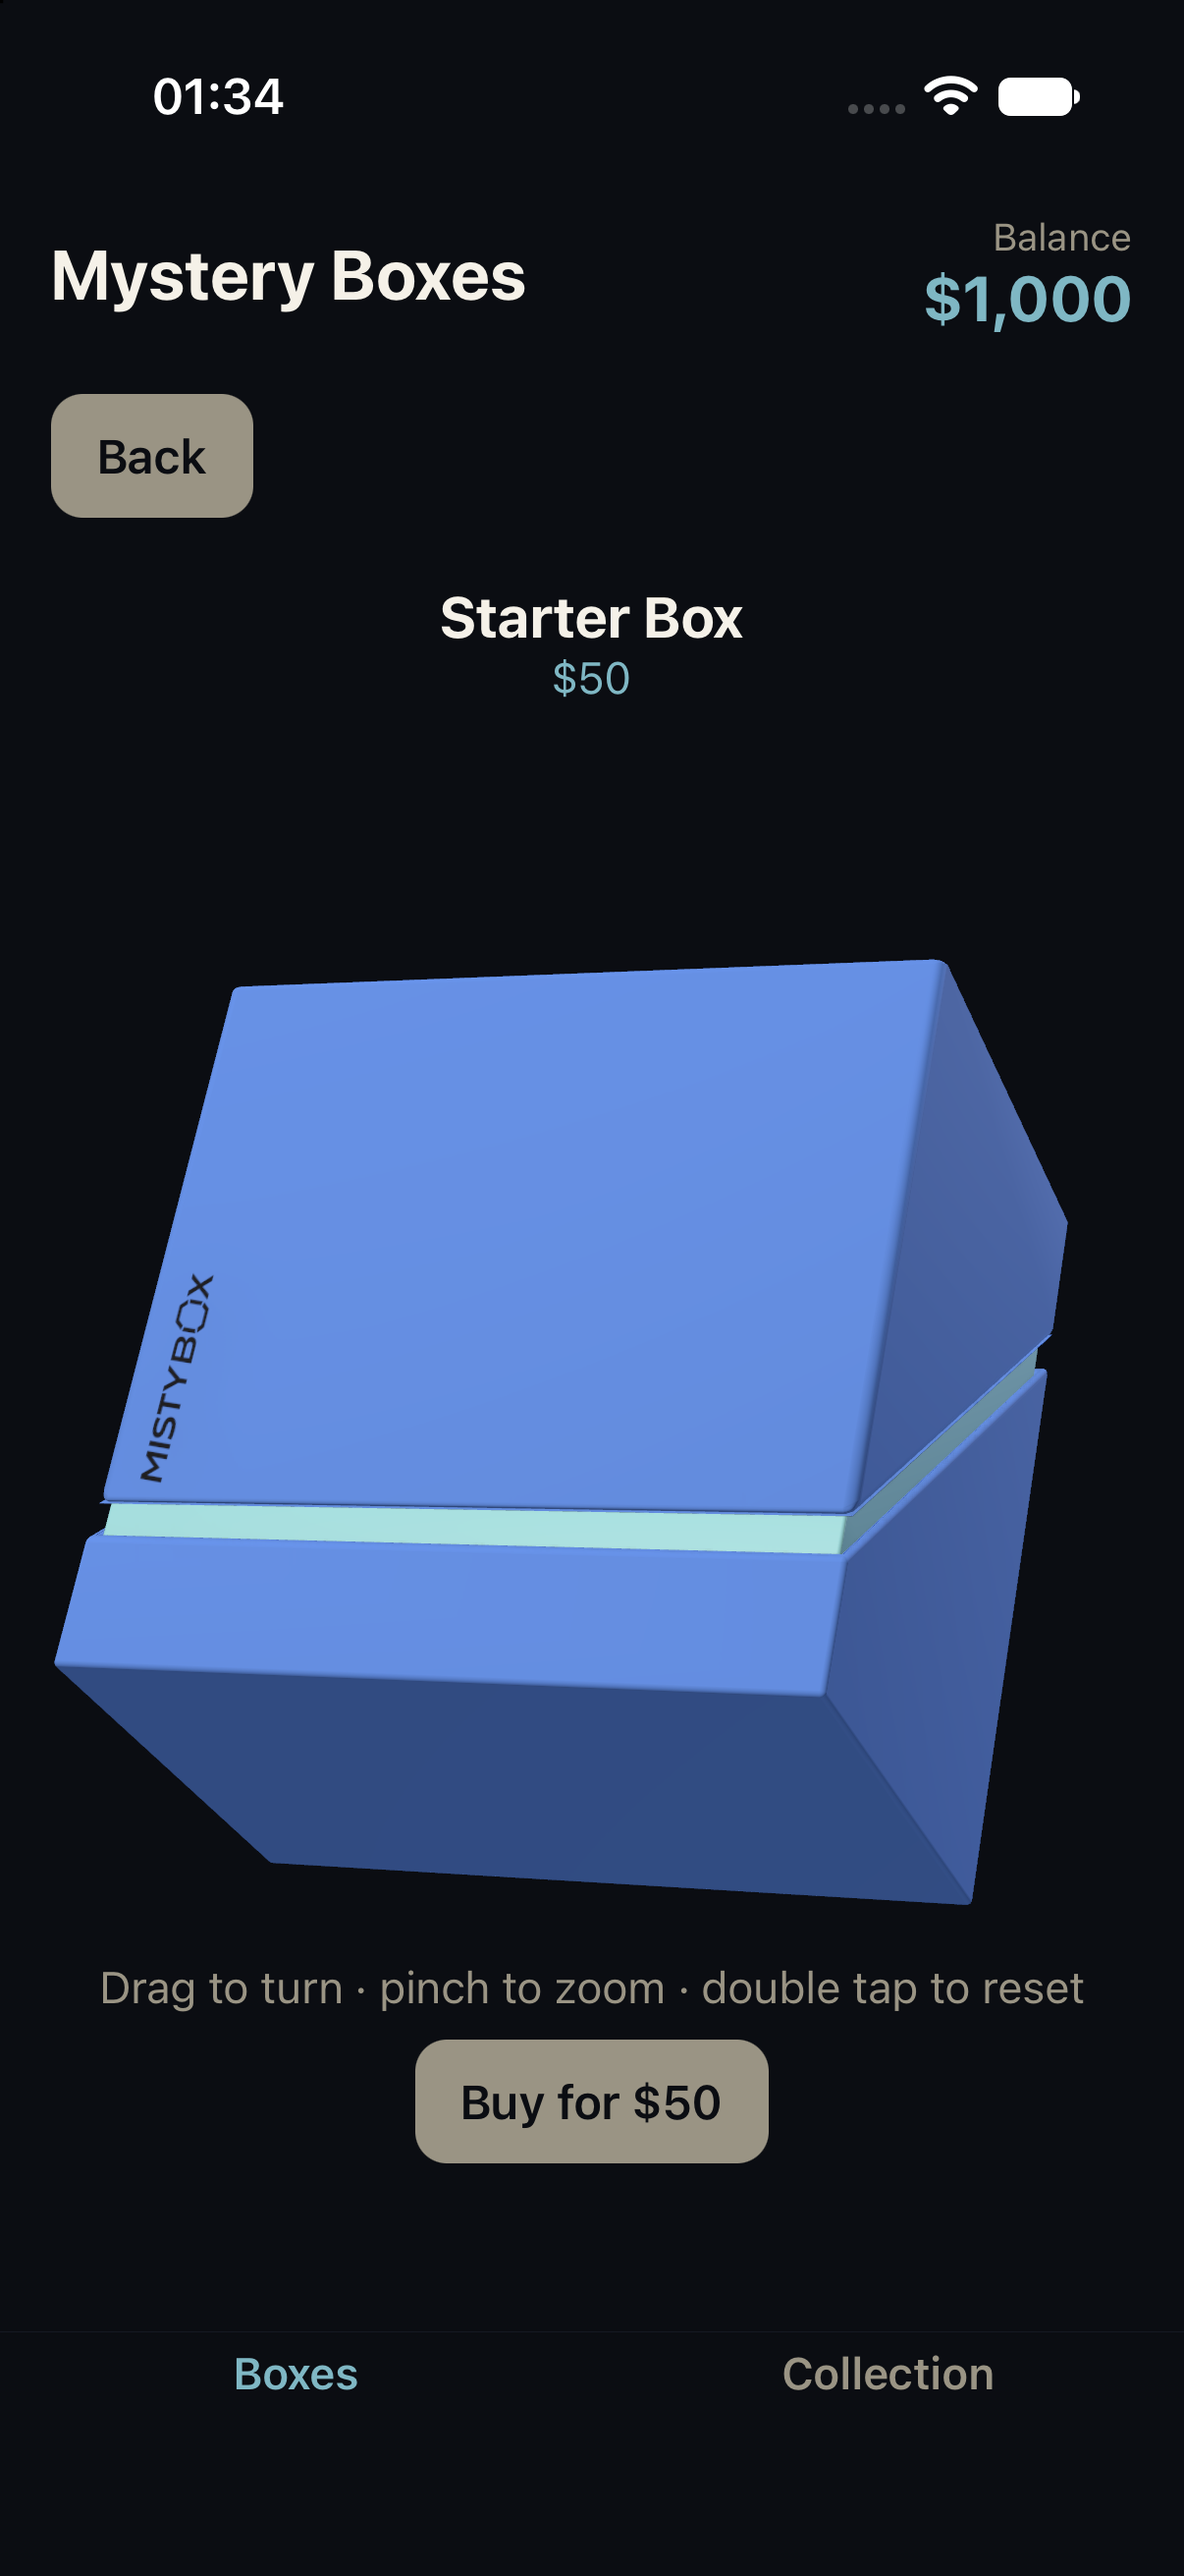
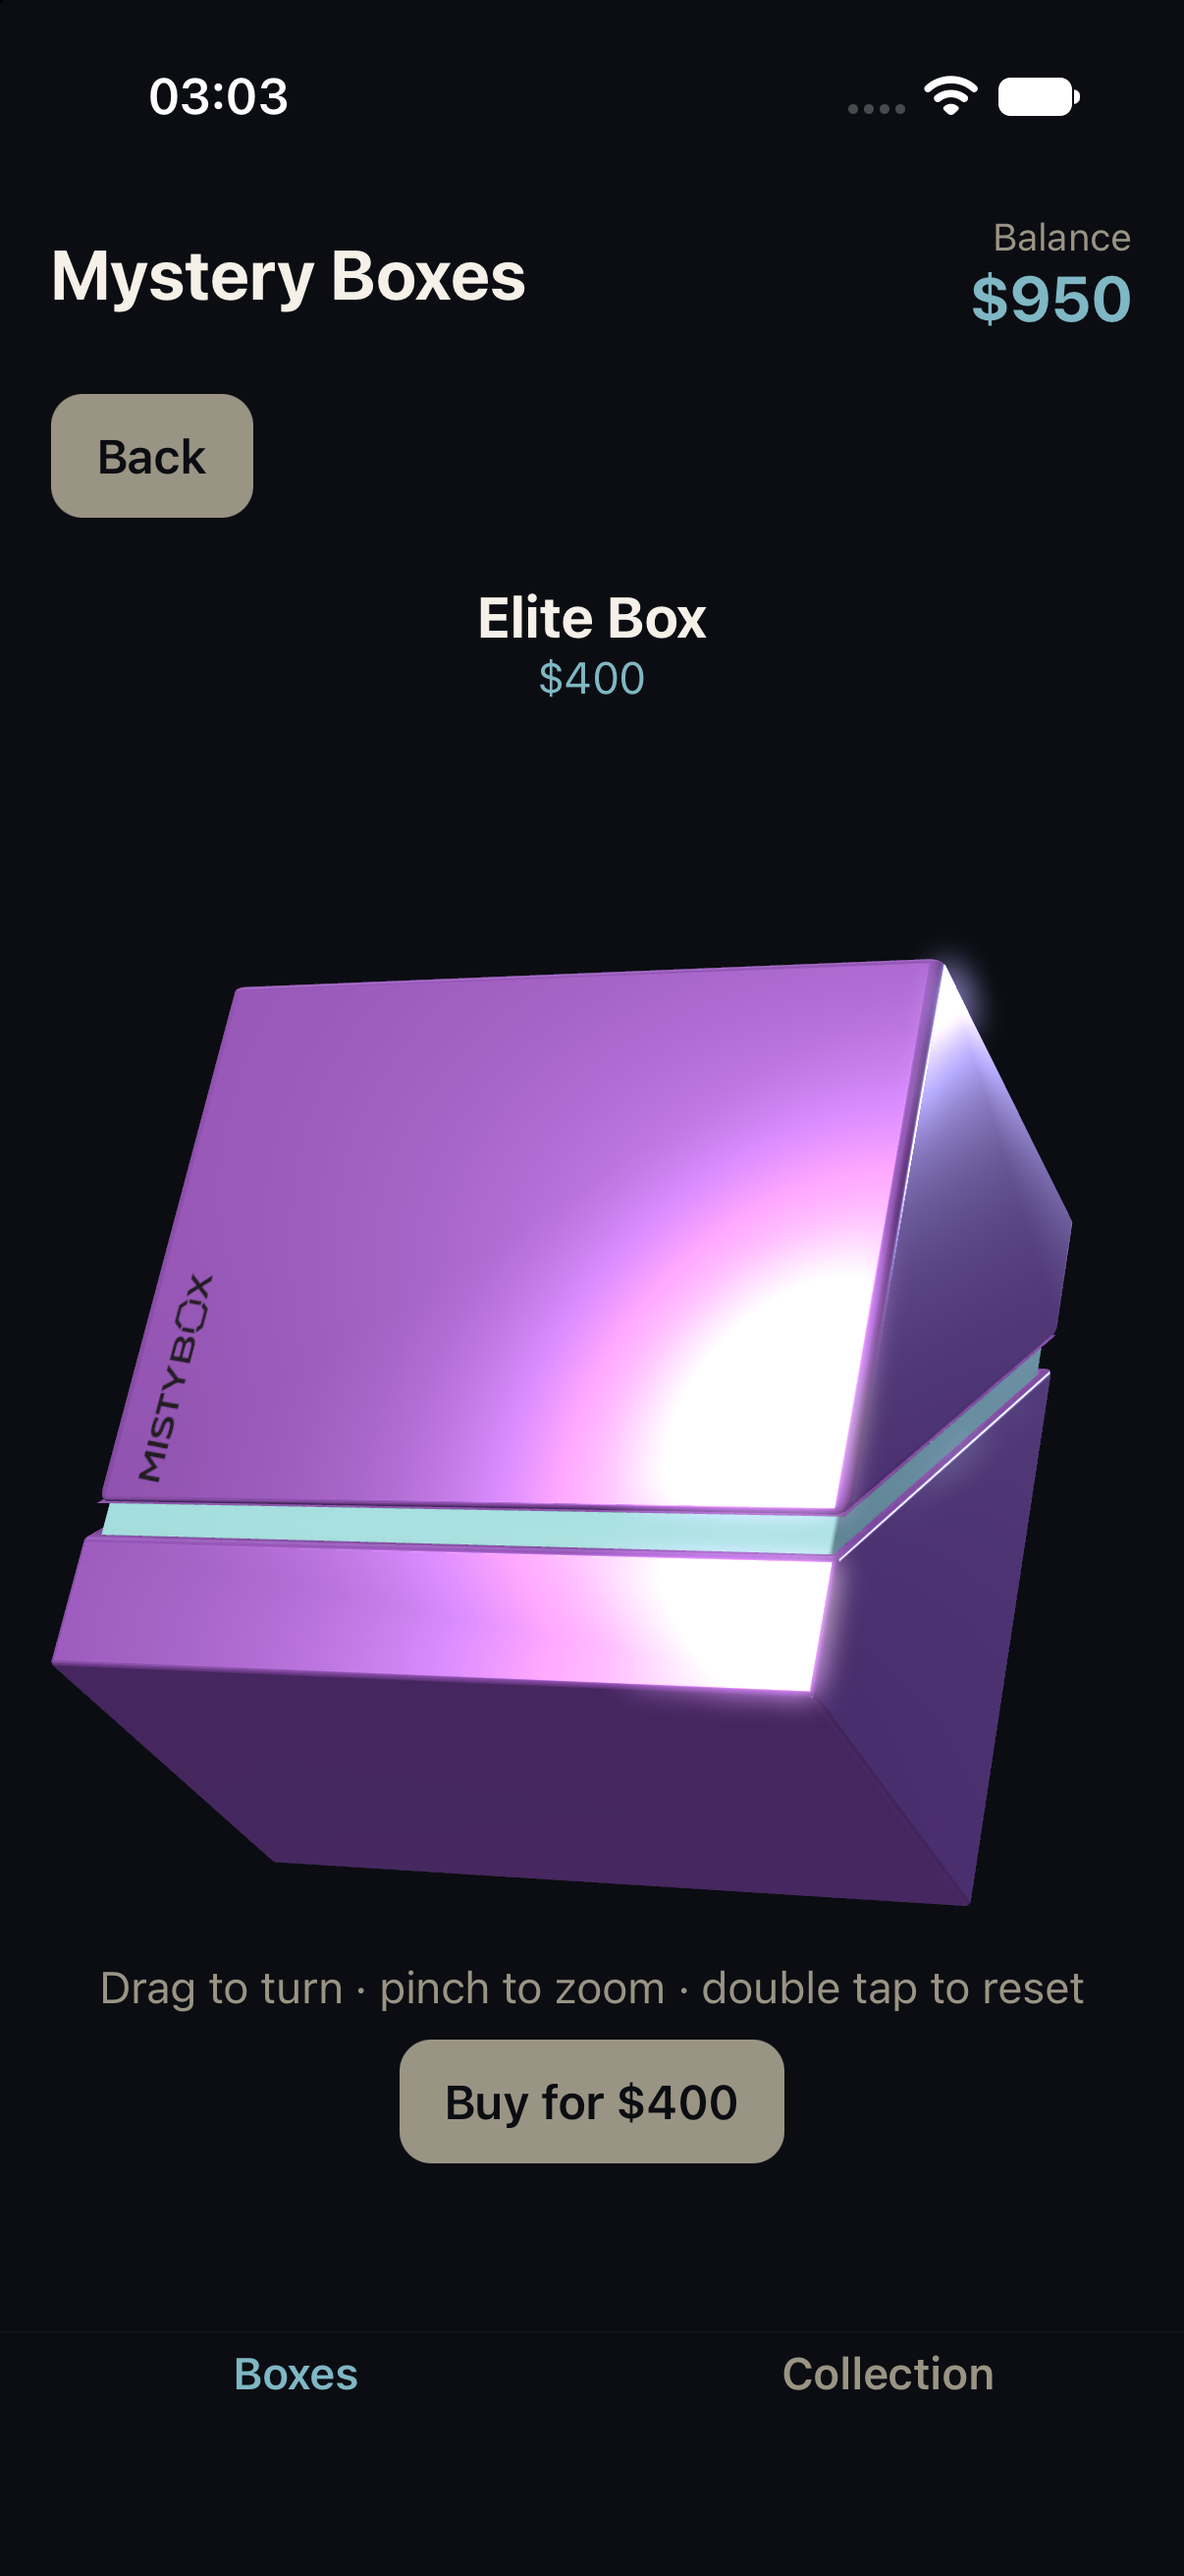
Round 2: Android progressive quality, iOS glow, scripted flow on both platforms, FPS of the opening flow, failure injection, docs

diff --git a/docs/PERFORMANCE.md b/docs/PERFORMANCE.md
@@ -10,7 +10,7 @@ Method: release builds with `EXPO_PUBLIC_SHOW_PERFORMANCE=1 EXPO_PUBLIC_AUTO_SCR
 |---|---|---|---|
 | Catalogue scrolling, all windows | **60.0 FPS**, 76 windows, 4,591 frames, 1 slow frame, worst frame 50 ms | **59.5 FPS**, 74 windows, 4,404 frames, 6 slow frames, worst frame 400 ms | 60.0 FPS, 0 slow frames, worst 17 ms |
 | Same, after the first 3 windows | 60.0 (windows 2…: 0 slow frames) | **60.0 FPS, 0 slow frames** (69 windows) | |
-| Opening flow (select → buy → open → reveal → Done) | **not measured** | 55.3 FPS, 138 windows, 505 slow frames, worst 383 ms: **unreliable**: the scripted run was started during the ~12 s material compile and several of its taps missed ([log](data/android-opening-flow.log)) | 60.0 / 59.6 |
+| Opening flow (select → buy → open → reveal → Done), 2-3 purchases, release build with the overlay | **60.0 FPS**, 33 windows, 1,938 frames, 1 slow frame (53 ms) ([log](data/ios-opening-flow.log)) | **58.5 FPS**, 44 windows, 2,574 frames, 43 slow frames (1.7 %), worst 100 ms, lowest window 42.3 FPS ([log](data/android-opening-flow.log)) | 60.0 / 59.6 |
 
 Raw logs: [data/ios-catalogue-scroll.log](data/ios-catalogue-scroll.log), [data/android-catalogue-scroll.log](data/android-catalogue-scroll.log). Analysis: `python3 scripts/perf/analyzeRenderFps.py <ios|android> 0 1000000 <log>`.
 
@@ -31,9 +31,13 @@ So (on iOS, and for the computed frames on Android) the native side is ready lon
 
 Before/after of the fixes made while investigating: Android used an opaque black clear colour (looked like a dark rectangle behind the list): now transparent (the app background shows through); iOS shipped without `box.glb` in its resource bundle (list without any boxes): fixed (`modules/mystery-scene/ios/Assets`). Both are correctness fixes, not timing changes. Not done: preloading the scene before the screen mounts, warming Filament's pipelines before the first visible frame, and mounting the view during "Loading boxes…" (it is already mounted then, with no cards). These are the next steps for the Android hitch.
 
-### 2b. Android: boxes appear only after Filament has compiled its materials (OPEN PROBLEM)
+### 2b. Android: material compilation delay (found in round 2, fixed by progressive quality)
 
-Found in the second round after the user's video: on the Android emulator the list shows, the scene computes everything (the `firstFrameWithBoxes` mark above is only the computed frame), but **nothing is drawn until Filament has compiled the glTF ubershader materials**, which takes **about 10-14 s after launch on this emulator, every launch** (screenshots at 4 s: empty, 8 s: empty, 14 s: boxes; reproduced on ~20 launches; the shader work is not cached between launches). On iOS the boxes are there at once. What was tried and did not help: disabling bloom and ambient occlusion (boxes at ~10-12 s instead of ~14 s), a 2 mm warm-up box drawn before the cards (the boxes then never appeared in the tests, reason not found), `setLensProjection`. What was done: the render loop no longer rests before frames were really drawn and keeps drawing for 15 s after the data arrives (so the boxes do appear once compiled, instead of staying empty forever). **Not fixed:** a real device may compile much faster than the emulator's GL translator, but this was not tested. Repo 1 (also Filament) did not show this delay on the same emulator; the cause of the difference (its material setup versus the `UbershaderProvider` used here) was not found. Next step to try: build the glTF materials with Filament's JIT provider or precompiled `.filamat` files and compile them (`Material.compile`) at app start.
+On the Android emulator the first version of the scene drew **nothing for ~10-14 s after launch**: the list showed, the scene computed everything (the marks above), but Filament had not finished compiling its shaders. Bisecting on the emulator: with shadows, FXAA, dithering, ambient occlusion and bloom all **off** the boxes were on screen in ~4 s; with only the post effects on (shadows off) in ~8 s; with everything on after ~10-14 s. What helped nothing: a 2 mm warm-up box (boxes then did not appear at all, reason not found), `setLensProjection` (boxes disappeared), JIT shader provider (not in this Filament Java API).
+
+**Fix (progressive quality):** the scene starts with the cheap pipeline (no shadows, no AA, no dithering, no AO, no bloom). The boxes appear first; 2.5 s after the first visible box FXAA, dithering, ambient occlusion and bloom are switched on (`fullQuality` mark). The render loop also no longer rests before frames were really drawn and keeps drawing for 15 s after the data arrives. **Measured (cold launches, release, `docs/data/android-startup-trace.txt`):** cards at 1.37-1.48 s after process start, first frame with boxes 25-29 ms later, full quality at ~3.9-4.0 s. Screenshots show the boxes by ~6 s after launch (the screenshot lag of `adb` makes finer timing impossible; before the fix ≥ 12 s).
+
+**Cost:** Android has **no shadows** (the lid no longer shades the inside of the box and the box no longer shades itself; the first version had them). Enabling them again brings the delay back on this emulator. A real device is likely faster, not tested.
 
 ## 3. Scroll sync
 

diff --git a/README.md b/README.md
@@ -28,8 +28,8 @@ Verified on **release builds**, iOS Simulator (iPhone 17, iOS 27) and Android Em
 - ✅ exactly-once purchase (unit tests; on a device: one purchase = one deduction, seen on both platforms)
 - ✅ `yarn ciPipeline` clean, `yarn test` green, Swift (XCTest) and Kotlin (JUnit) parity tests green
 - ✅ catalogue scroll FPS: iOS 60.0 (0 slow frames after the first window), Android 60.0 after the first 3 windows (see [PERFORMANCE.md](docs/PERFORMANCE.md))
-- ❌ **Android: on a fresh launch the boxes only appear after ~10-14 s on the emulator** (Filament material compilation; list and texts show at once). Open problem, see [docs/PERFORMANCE.md](docs/PERFORMANCE.md#2b-android-boxes-appear-only-after-filament-has-compiled-its-materials-open-problem). iOS is fine.
-- ⚠ **Not verified / gaps:** pinch, press-squeeze and swipe-up-to-open were not re-run on the final builds; Rare / Epic / Legendary reveals and failure injection (`EXPO_PUBLIC_MOCK_PURCHASE_FAILURE`) were not re-run on devices; the opening flow was not FPS-measured; Android's first ~1 s of frames is slow (shader compile); the glow from inside the box is weak on iOS; no physical devices. Details: [docs/TEST_CHECKLIST.md](docs/TEST_CHECKLIST.md).
+- ✅ Android boxes appear within a few seconds of launch (progressive quality, see [PERFORMANCE.md 2b](docs/PERFORMANCE.md)); **Android has no shadows** (they made the first boxes appear only after ~10-14 s on the emulator).
+- ⚠ **Not verified / gaps:** Rare reveal on iOS and Legendary on iOS (Legendary and Rare shown on Android, Epic and Common on iOS), failure injection only `serverError` and only on Android (the other modes by unit tests), pinch only on iOS (adb cannot send it), press squeeze not caught in a screenshot, device tilt, physical devices, iOS boxes are ~10 % smaller than in repo 1 (not fixed). Details: [docs/TEST_CHECKLIST.md](docs/TEST_CHECKLIST.md).
 
 ## 2. Quick start
 
@@ -123,7 +123,7 @@ docs/                         documentation, media (screenshots), data (raw FPS 
 ## 8. Known limits and decisions
 
 - iOS look differs from Android and from repo 1 in small ways; every known difference is in [docs/ANIMATIONS.md](docs/ANIMATIONS.md#what-differs-from-the-first-version-react-native-filament).
-- The mock API takes 700 ms: the list shows "Loading boxes…" for that long (same as repo 1); the native scene is created and its model parsed in the first ~20 ms (iOS), so on iOS boxes start popping in within about 5 ms of the data arriving, then the entrance plays (520 ms + 90 ms per card, as in repo 1). On Android the frames are computed just as fast but drawn only after Filament compiled its materials (~10-14 s on the emulator, open problem).
+- The mock API takes 700 ms: the list shows "Loading boxes…" for that long (same as repo 1); the native scene is created and its model parsed in the first ~20 ms (iOS), so on iOS boxes start popping in within about 5 ms of the data arriving, then the entrance plays (520 ms + 90 ms per card, as in repo 1). On Android the first boxes are drawn with a cheap pipeline within a few seconds of launch, and the full look (minus shadows) follows 2.5 s later.
 - SceneKit is in maintenance at Apple; chosen for robustness and zero extra code for PBR/shadows/SSAO/bloom (see NATIVE_SCENE.md).
 - `ios/` and `android/` are generated and git-ignored; `modules/mystery-scene/ios/Assets/box.glb` is a second copy of `assets/box.glb` (CocoaPods cannot read outside the pod folder).
 

diff --git a/docs/TEST_CHECKLIST.md b/docs/TEST_CHECKLIST.md
@@ -41,13 +41,31 @@ Pinch, double-tap reset, press squeeze, swipe-up-to-open, Rare/Epic/Legendary re
 | B4 | Android build | namespace `...native` invalid | `native` is a Java keyword; config plugin sets the application id |
 | B5 | Android | stale JavaScript in measurement builds | Gradle bundle cache (documented in TESTING.md Rule 5) |
 
-## 4b. Open bug (second round)
+## 4b. Round 2 results
 
-| # | Platform | Symptom | Status |
+| Case | Android | iOS |
+|---|---|---|
+| Boxes visible after launch | ✅ after the fix (progressive quality); before: ~10-14 s late (bug B6) | ✅ |
+| Pinch zoom | ➖ (adb cannot send two fingers) | ✅ zoom to the 2x limit ([shot](media/ios-14-pinch-zoom.png)) |
+| Double-tap reset | ➖ | ✅ ([shot](media/ios-15-double-tap-reset.png)) |
+| Press squeeze | ⚠ long press taken, effect not visible in the picture | ⚠ same |
+| Swipe up opens a bought box | ✅ ([shot](media/android-16-swipe-up-opening.png)) | ✅ ([shot](media/ios-16-swipe-up-opening.png)) |
+| Reveal Common / Rare / Epic / Legendary | Common ✅, Rare ✅ (purchase 2), Legendary ✅ (5th purchase: 4 Starter + Classic, balance $650 = exactly-once) | Common ✅, Epic ✅ ([shot](media/ios-19-reveal-epic.png)), Rare ⚠ shot taken during the flow (`ios-18-reveal-rare.png`), Legendary ➖ |
+| Failure injection `serverError` | ✅ error text, balance unchanged $1,000, Buy available again ([shot](media/android-22-failure-server-error.png)) | ➖ (same TypeScript; unit tests) |
+| `networkError`, `responseLost` | ➖ unit tests only | ➖ |
+| Opening-flow FPS | 58.5 FPS, 1.7 % slow frames | 60.0 FPS |
+| iOS glow strength | n/a | ✅ intensity 1.6, visible in the prize colour ([shot](media/ios-09-lid-opening-glow.png)); 4 blew out to white |
+| Box size vs repo 1 (~10 % smaller) | ➖ not fixed (no comparable final-state screenshot of repo 1) | ➖ not fixed |
+
+Still not run: device tilt, background/foreground, empty-collection screen, physical devices, Android shadows (removed, see PERFORMANCE.md 2b).
+
+## 4c. Bugs of round 2
+
+| # | Platform | Symptom | Cause / fix |
 |---|---|---|---|
-| B6 | Android | List shows, **3D boxes appear only ~10-14 s after launch** (Filament material compile on the emulator); reproduced on every cold launch | **open**, see PERFORMANCE.md 2b |
-
-Not done in the second round: pinch / press squeeze / swipe-up on device, Rare/Epic/Legendary screenshots on final builds (the Android purchase script was blocked by the empty list), failure injection on a device, iOS opening-flow FPS. iOS glow was strengthened (emission intensity 4) but not re-checked by screenshot.
+| B6 | Android | Boxes only ~10-14 s after launch (empty list) | Filament shader compilation on the emulator; progressive quality, shadows removed |
+| B7 | Android | `uiautomator dump` fails while the reveal animates (testID taps "not found") | test tooling; scripts use coordinates for Buy/Open/Done |
+| B8 | iOS | Glow white at intensity 4, weak at 1 | set to 1.6 |
 
 ## 5. Performance
 

diff --git a/docs/ANIMATIONS.md b/docs/ANIMATIONS.md
@@ -252,12 +252,13 @@ Every sound is synthesised by a script (`yarn assetsSounds`, `scripts/assets/gen
 | Collection | ![](media/ios-12-collection.png) | ![](media/android-13-collection.png) |
 | Detail sheet | ![](media/ios-13-collection-detail.png) | ![](media/android-14-collection-detail.png) |
 
-Not captured: pinch, press squeeze mid-flight, Rare / Epic / Legendary reveals on the final builds (an Epic reveal on iOS and a Rare reveal on Android were seen in the flow checks, but not kept as final screenshots), the swipe-up open. They are listed in [TEST_CHECKLIST.md](TEST_CHECKLIST.md) as not re-run.
+More screenshots: pinch zoom ([iOS](media/ios-14-pinch-zoom.png)), double-tap reset ([iOS](media/ios-15-double-tap-reset.png)), swipe-up open ([iOS](media/ios-16-swipe-up-opening.png), [Android](media/android-16-swipe-up-opening.png)), Epic ([iOS](media/ios-19-reveal-epic.png)), Rare ([Android](media/android-17-reveal-purchase2.png)), Legendary ([Android](media/android-18-reveal-purchase5-classic.png)), failure ([Android](media/android-22-failure-server-error.png)). Not captured: press squeeze mid-flight, Legendary on iOS. They are listed in [TEST_CHECKLIST.md](TEST_CHECKLIST.md) as not re-run.
 
 ## What differs from the first version (react-native-filament)
 
 - **Engines:** SceneKit on iOS (the first version used Filament on both). Lights, shadows, ambient occlusion and bloom are SceneKit's equivalents, tuned by eye, so the iOS look differs a little: a different tone curve, softer highlights, a generated studio environment instead of Filament's KTX.
-- **Light from inside the box** is weaker on iOS than in the first version (SceneKit emission is not tuned up yet; Common's grey glow is hardly visible). Android shows a faint glow.
+- **Light from inside the box:** visible on both platforms in the prize colour (iOS emission intensity 1.6, Android the emissive factor), roughly like the first version.
+- **Android has no shadows and its post effects (FXAA, dithering, ambient occlusion, bloom) start 2.5 s after the first box appears**, because compiling them delayed the first picture by 10+ s on the emulator. iOS has all of them from the start.
 - **Box size:** the iOS boxes are about 10 % smaller in their slots than in the first version (SceneKit's field-of-view mapping); layout is identical otherwise.
 - **Background:** transparent over the app background on both platforms.
 - **Behaviour is otherwise the same:** same numbers, same state machine (proved by the shared vectors), but timers (sounds, reveal) stay in JavaScript.
